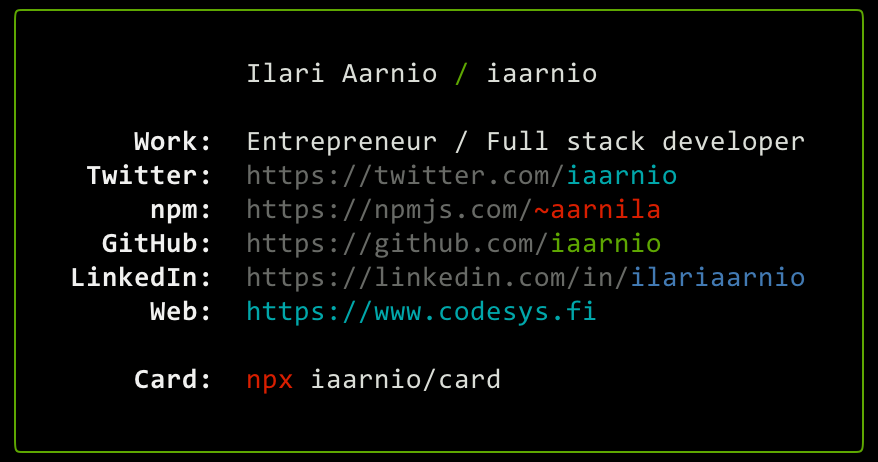
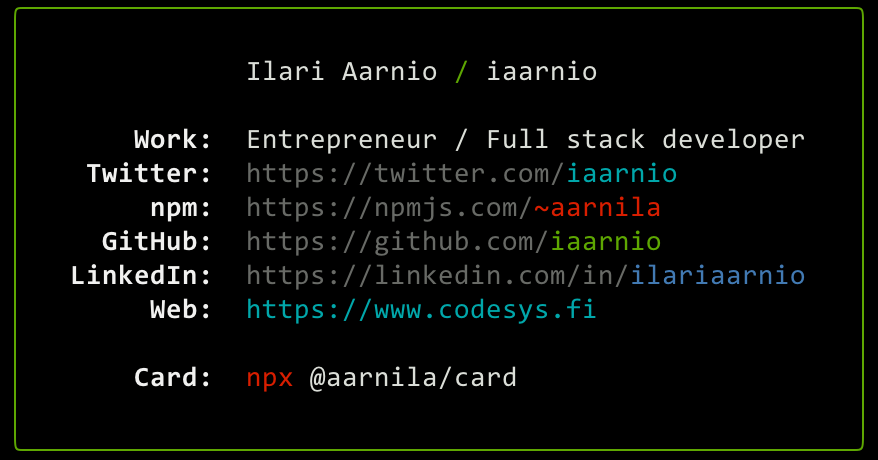
Fix package name

diff --git a/build.js b/build.js
@@ -23,7 +23,7 @@ const data = {
   github: chalk.gray('https://github.com/') + chalk.green('iaarnio'),
   linkedin: chalk.gray('https://linkedin.com/in/') + chalk.blue('ilariaarnio'),
   web: chalk.cyan('https://www.codesys.fi'),
-  npx: chalk.red('npx') + ' ' + chalk.white('iaarnio/card'),
+  npx: chalk.red('npx') + ' ' + chalk.white('@aarnila/card'),
   labelWork: chalk.white.bold('    Work:'),
   labelTwitter: chalk.white.bold(' Twitter:'),
   labelnpm: chalk.white.bold('     npm:'),

diff --git a/README.md b/README.md
@@ -5,7 +5,7 @@ It's me, Ilari!
 ## Usage
 Via npx:
 ```
-npx iaarnio/card
+npx @aarnila/card
 ```
 
 ## Preview
